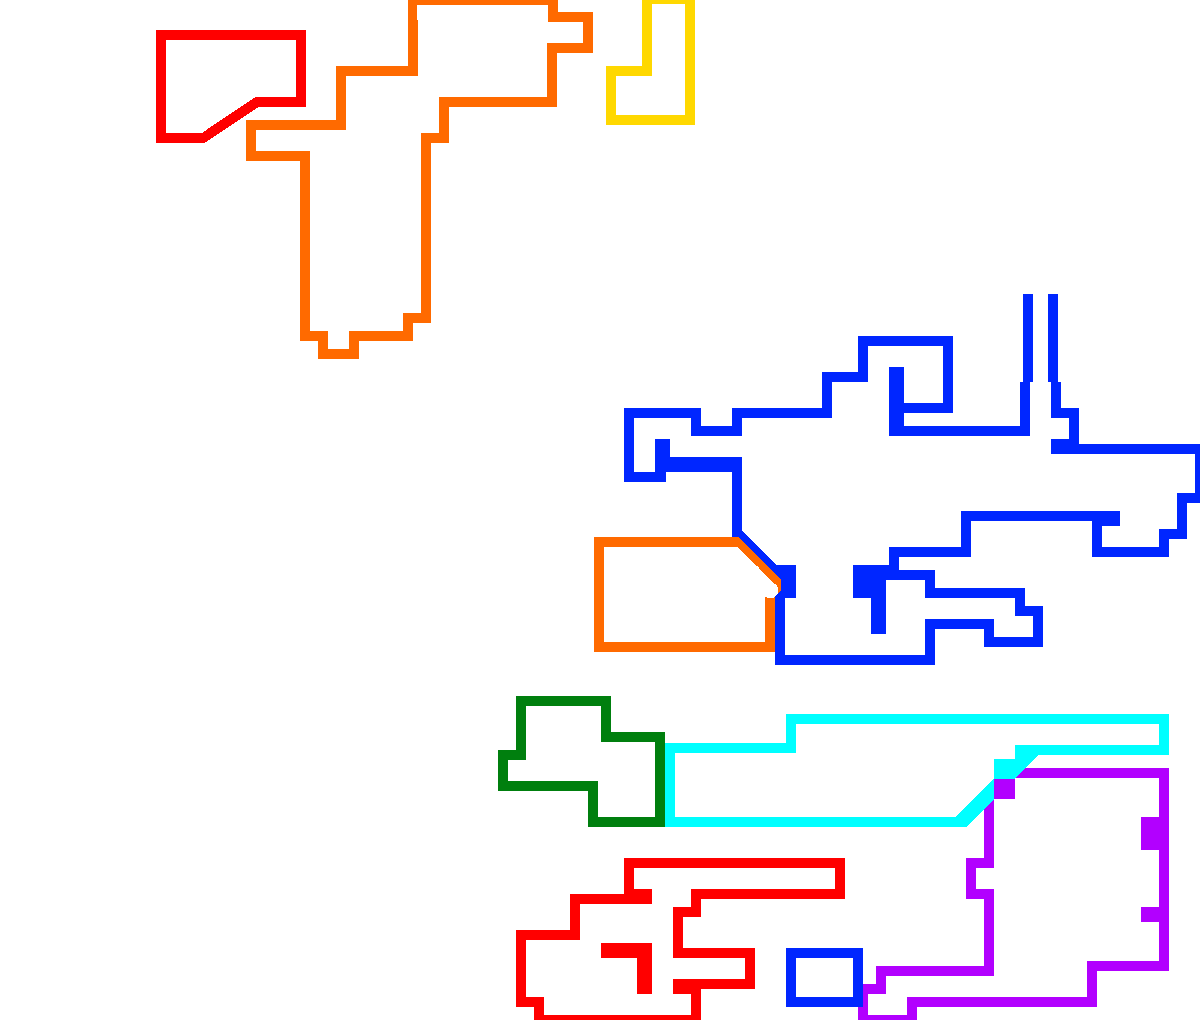
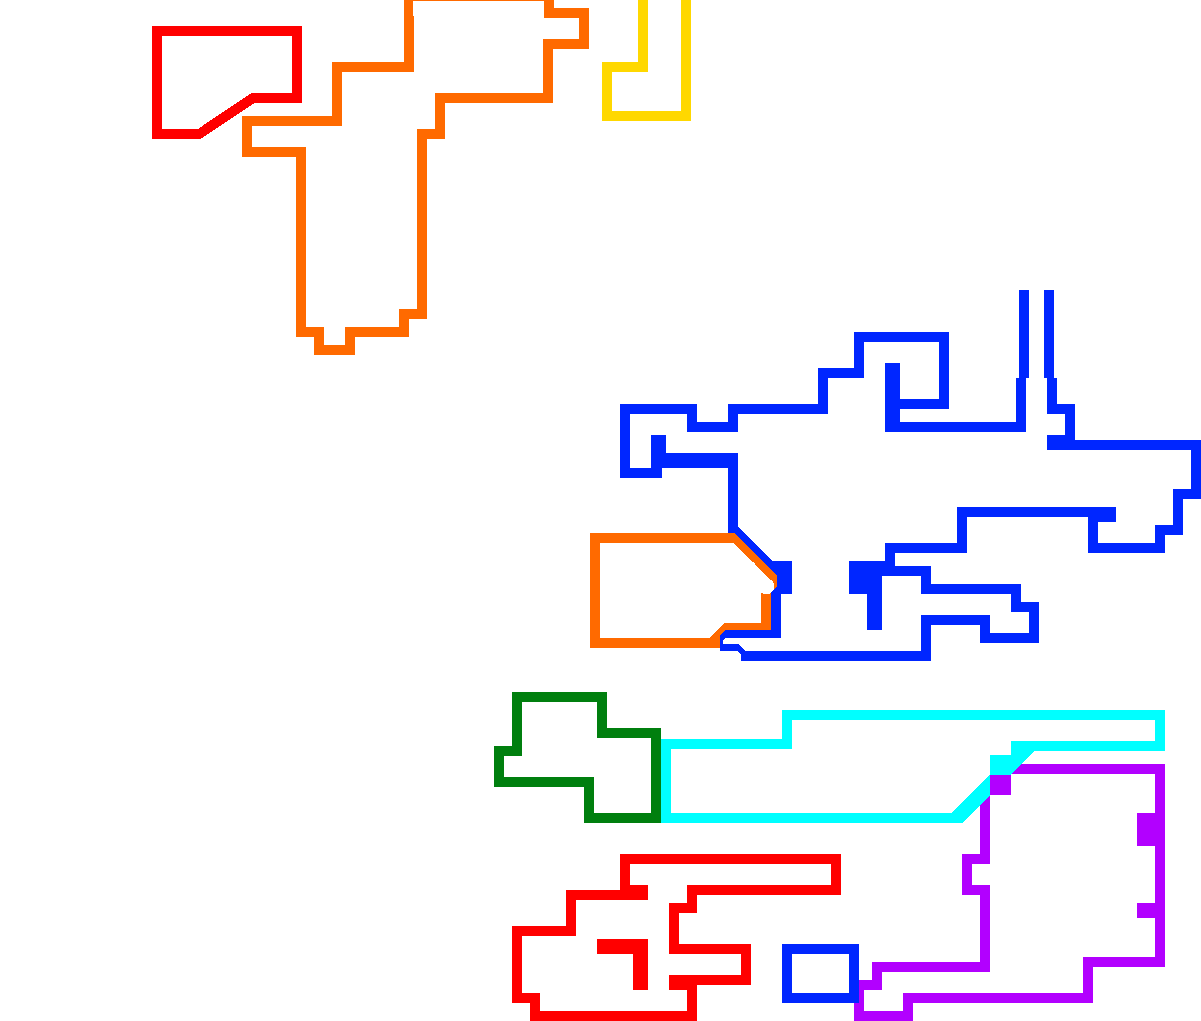
Small bugfixes
Adjust M3 map
Forgot a chest in Skull Woods

Changed region(s): [[0.4008, 0.2735, 1.0, 1.0], [0.1233, 0.0, 0.4933, 0.3647], [0.4933, 0.0, 0.5858, 0.1216]]

diff --git a/script/classes/Region/ALttP/Dungeons/DungeonsSkullWoods.js b/script/classes/Region/ALttP/Dungeons/DungeonsSkullWoods.js
@@ -6,6 +6,7 @@ class DungeonsSkullWoods extends Dungeons {
 		this.locations = new LocationCollection([
 			new Location("BigChest","Skull Woods - Big Chest","","",regionName),
 			new Location("Chest","Skull Woods - Big Key Chest","","",regionName),
+			new Location("Chest","Skull Woods - Compass Chest","","",regionName),
 			new Location("Chest","Skull Woods - Map Chest","","",regionName),
 			new Location("Chest","Skull Woods - Bridge Room","","",regionName),
 			new Location("Chest","Skull Woods - Pot Prison","","",regionName),

diff --git a/css/metroid/m3/metroid3.css b/css/metroid/m3/metroid3.css
@@ -13,8 +13,9 @@
 .metroid3 .mapdiv,
 .metroid3 .mapdiv #mapoverlay {
     background: url(../../../images/metroid3/maps/map.png) no-repeat;
-    width: 1200px;
-    height: 1020px;
+    background-position: 4px 4px;
+    width: 1206px;
+    height: 1025px;
     top: 0;
     left: 0;
     position: absolute;
